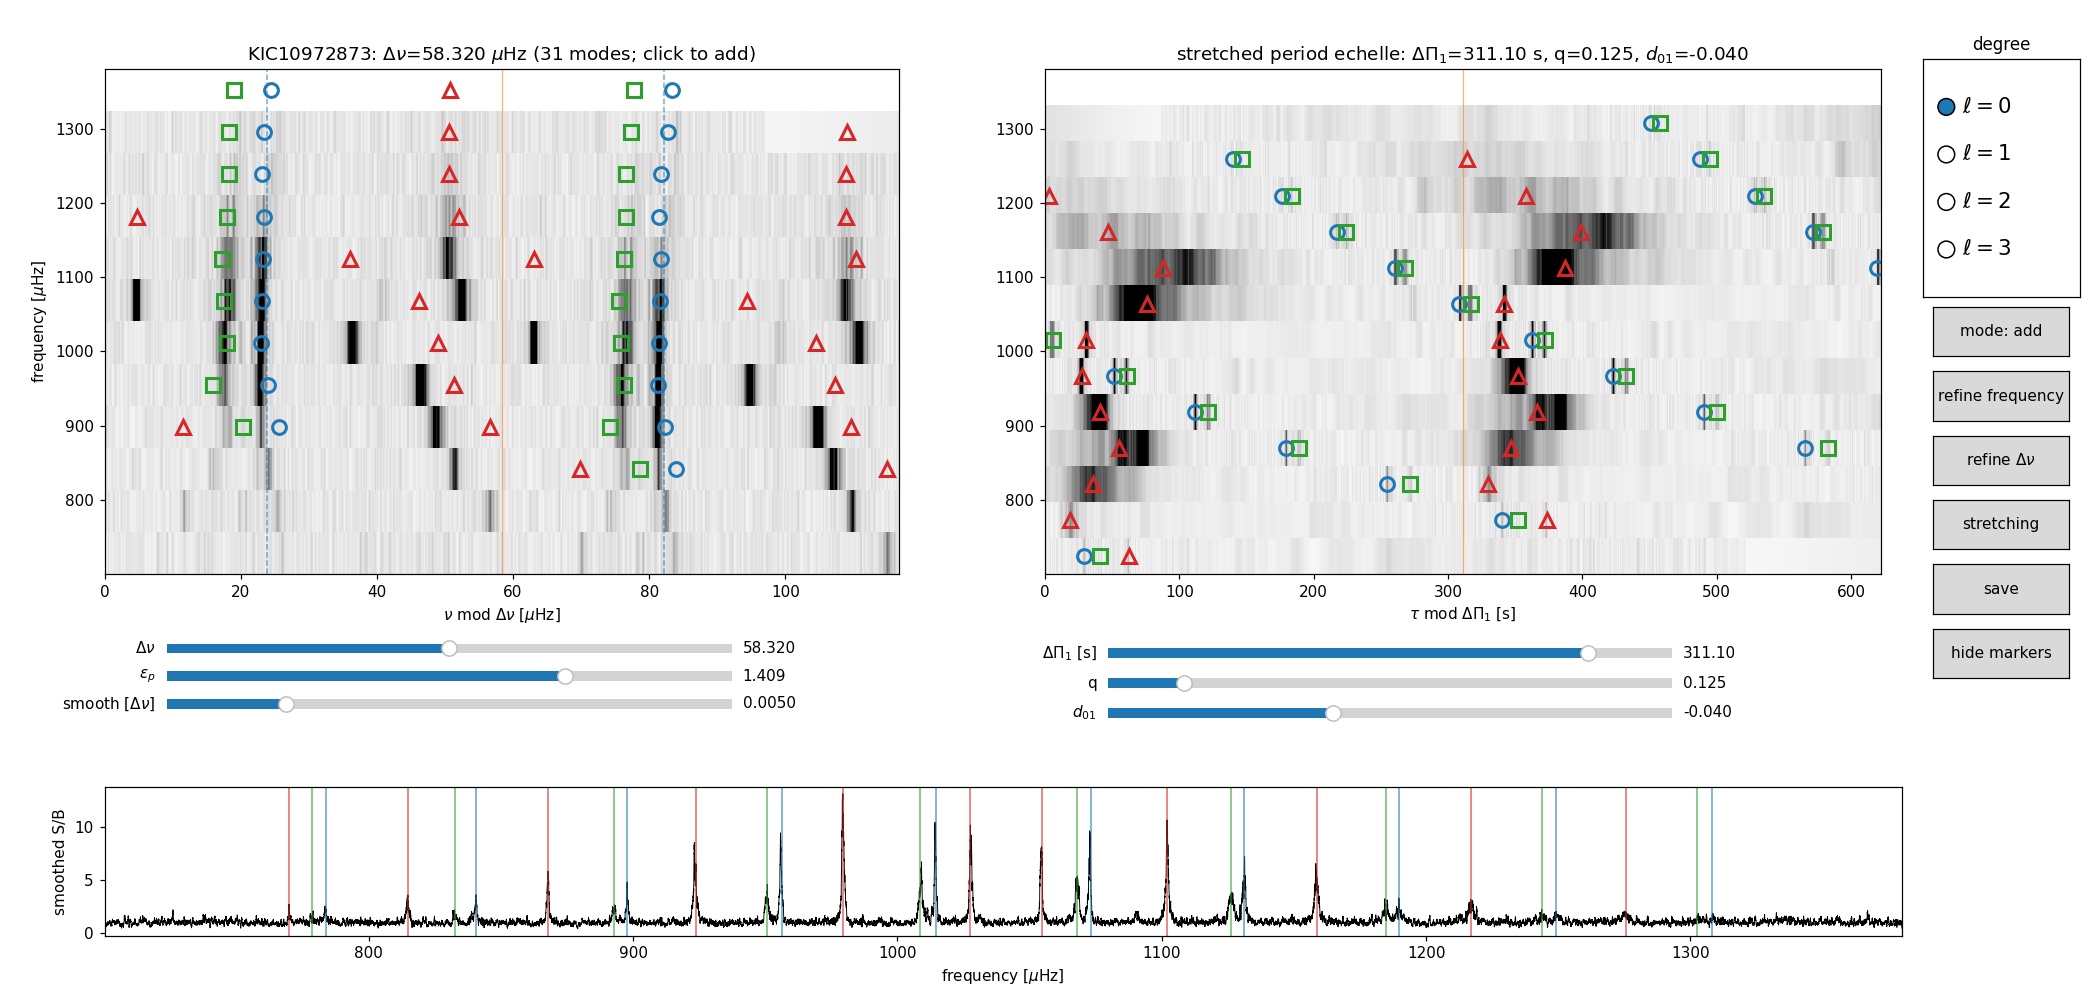
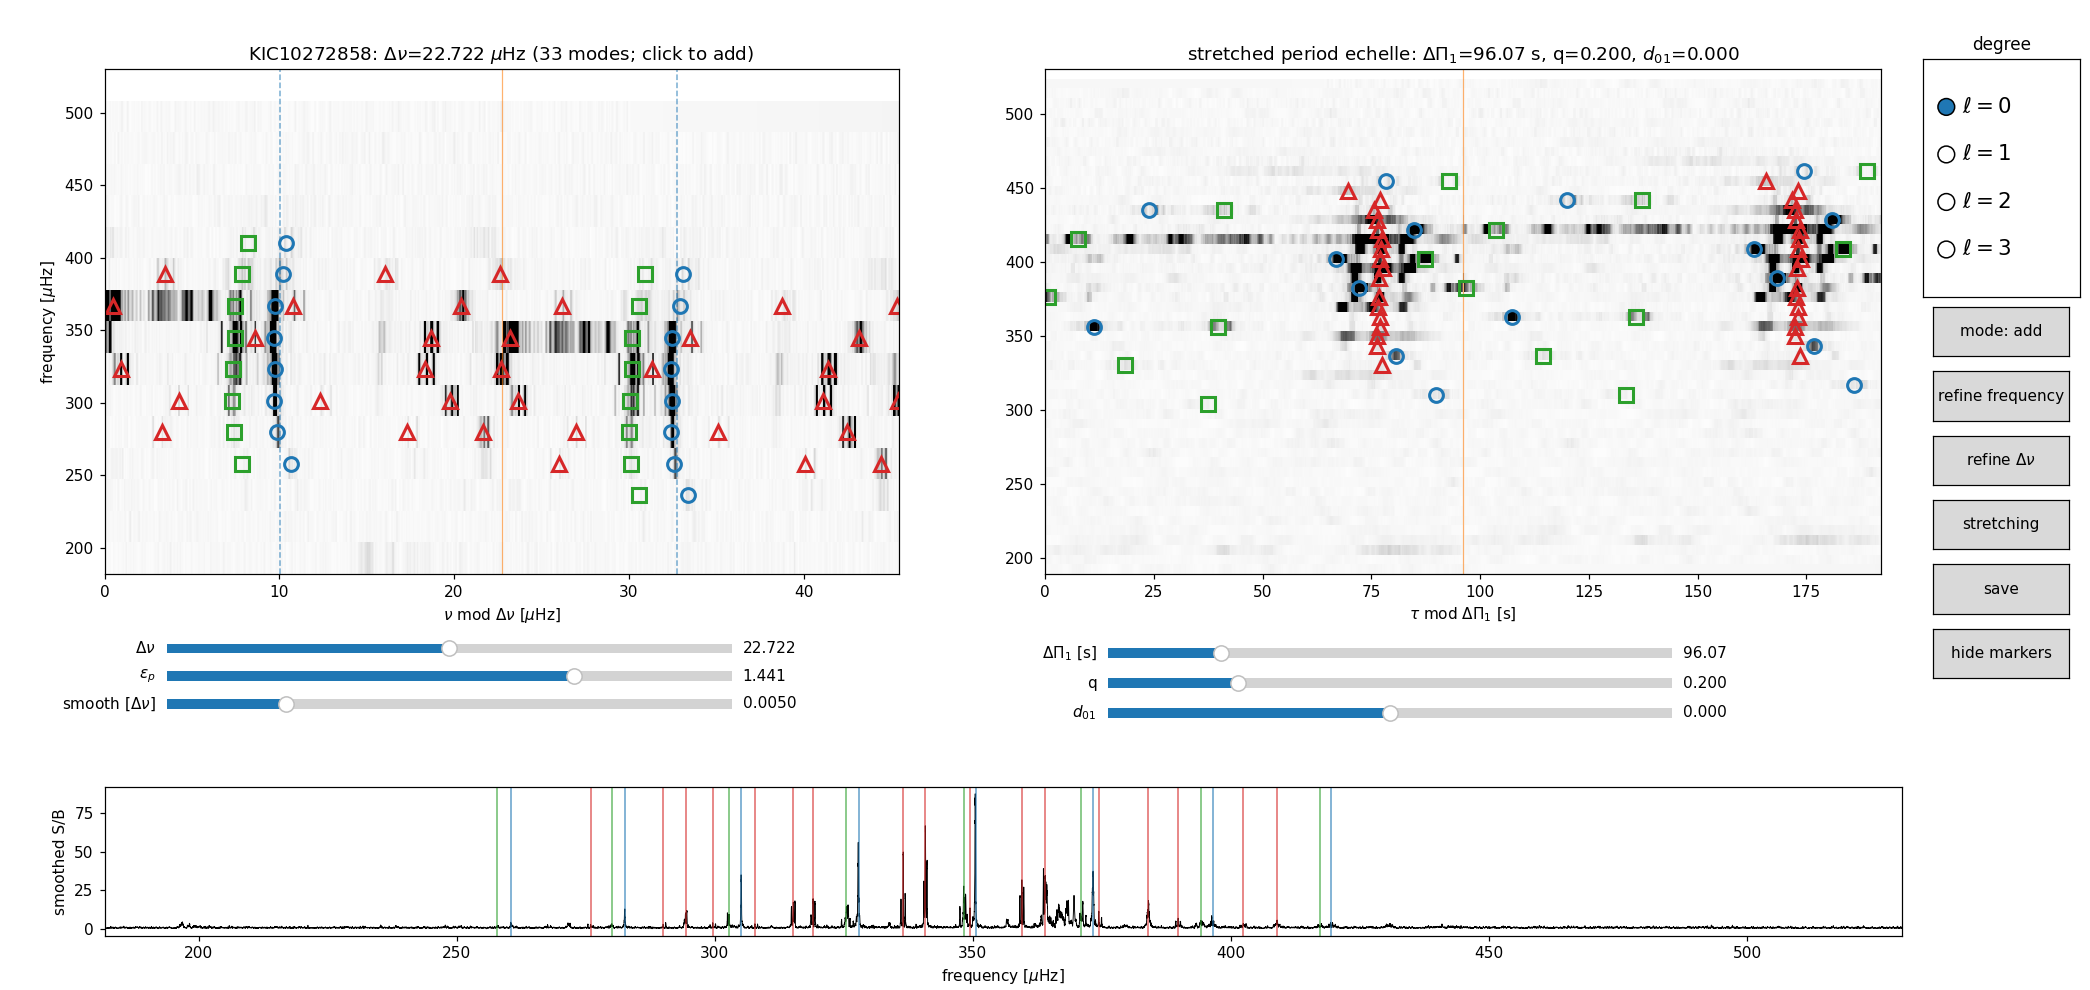
Regenerate README widget figure from the KIC 10272858 example
The screenshot now shows the red giant session with the stretched period
panel open, and the README caption moved to that example.

Assisted by Claude

diff --git a/README.md b/README.md
@@ -46,12 +46,6 @@ clickelle init KIC10972873_snr.csv --star KIC10972873   # inspect / edit the tag
 clickelle fit  KIC10972873_snr.csv --star KIC10972873   # fit them
 ```
 
-Press **stretching** in the widget to open the stretched period echelle
-— the l=1 mixed modes (red triangles) line up on the wiggly vertical
-ridge characteristic of a subgiant:
-
-![the clickelle widget on KIC 10972873](docs/widget.png)
-
 The fit takes a few minutes (31 modes in 18 groups, drop-one lnK refits
 included) and recovers 29 detections with a median frequency error of
 0.064 uHz; see the resulting
@@ -64,6 +58,13 @@ forest of l=1 mixed modes:
 ```
 clickelle init KIC10272858_snr.csv --star KIC10272858
 ```
+
+Press **stretching** in the widget to open the stretched period echelle
+— the l=1 mixed modes (red triangles), scattered across the frequency
+echelle on the left, collapse onto a single vertical ridge once ΔΠ₁ and
+q are right:
+
+![the clickelle widget on KIC 10272858](docs/widget.png)
 
 ## Step 1: tag modes interactively
 
